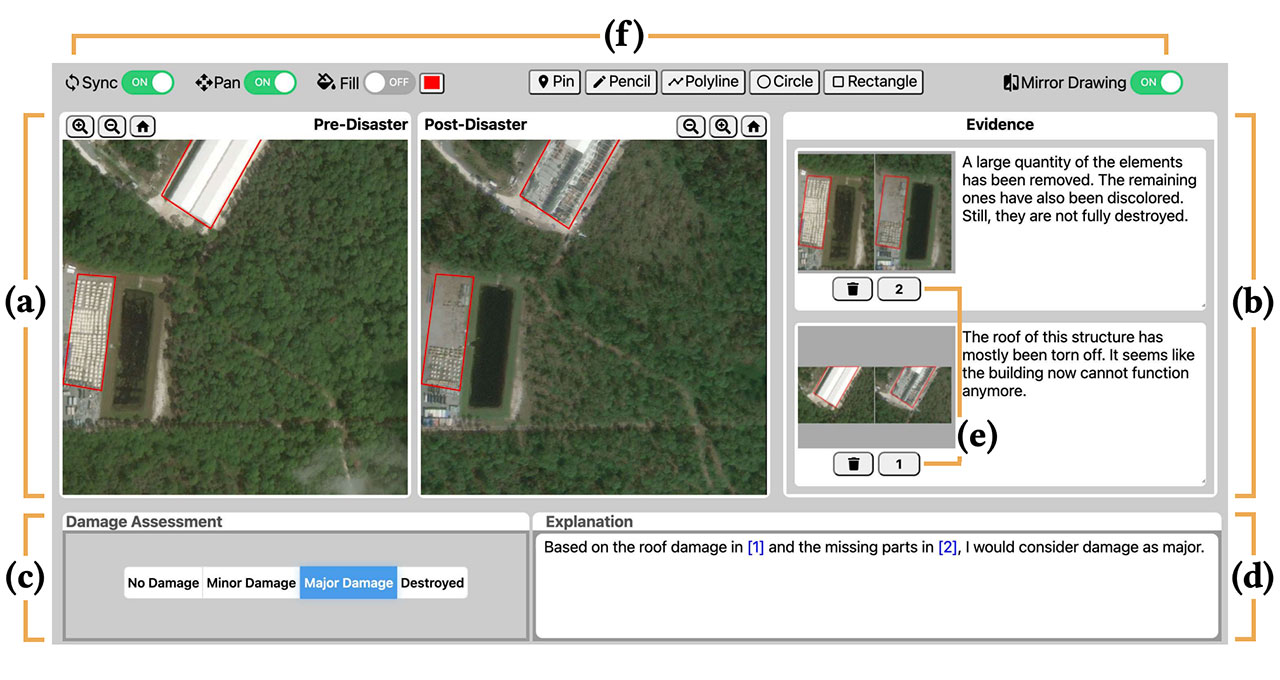
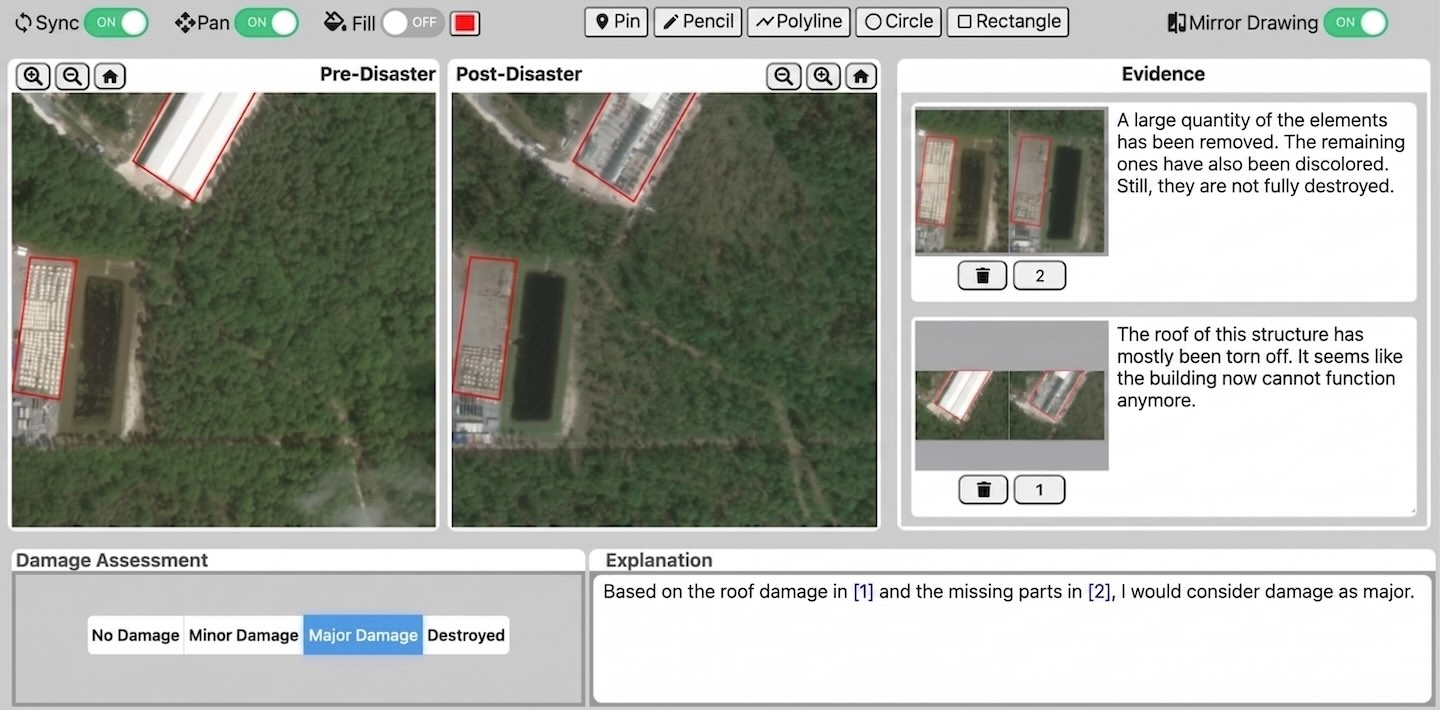
update papers

diff --git a/_layouts/publication.html b/_layouts/publication.html
@@ -13,24 +13,9 @@ layout: default
   <meta itemprop="keywords" content="{{ cat }}">
   {% endfor %}
   <div class="pb-3">
-    <h1 class="publication-detail-title" itemprop="headline">{{ page.title }}</h1>
-    <p class="publication-author-list">
-      {% for author in page.authors %}
-      {% assign author_data = site.data.people.people | where:"name", author | first %}
-      {% if author_data and author_data.website %}
-      <a href="{{ author_data.website }}">{{ author }}</a>
-      {% else %}
-      {{ author }}
-      {% endif %}
-      {% unless forloop.last %}, {% endunless %}
-      {% endfor %}
-      {% if page.coauthors %} <span class="publication-cofirst ml-2">(* co-first authorship)</span>{% endif %}
-    </p>
-    {% if page.note %}
-    <p><span itemprop="isPartOf">{{ page.venue_full | default: page.venue }}</span>, {{ page.year }}. ({{ page.note }})</p>
-    {% else %}
-    <p><span itemprop="isPartOf">{{ page.venue_full | default: page.venue }}</span>, {{ page.year }}.</p>
-    {% endif %}
+    <h1 class="publication-detail-title mb-2" itemprop="headline">{{ page.title }}</h1>
+    
+    <p><span itemprop="isPartOf">{{ page.venue_full | default: page.venue }}</span></p>
     {% if page.award %}
     <p class="inline-flex items-center"><i data-lucide="trophy" class="mr-1.5"></i>{{ page.award }}</p>
     {% endif %}

diff --git a/_publication/arxiv2026_design-homogenization_paper.md b/_publication/arxiv2026_design-homogenization_paper.md
@@ -12,7 +12,7 @@ authors:
   - Katharina Reinecke
   - Emily Tseng
 venue: arXiv preprint, 2026
-venue_full: "arXiv preprint"
+venue_full: "arXiv preprint arXiv:2603.13036"
 abstract: "Generative AI is known for its tendency to homogenize, often reproducing dominant style conventions found in training data. However, it remains unclear how these homogenizing effects extend to complex structural tasks like web design. As lay creators increasingly turn to LLMs to ‘vibe-code’ websites—prompting for aesthetic and functional goals rather than writing code—they may inadvertently narrow the diversity of their designs, and limit creative expression throughout the internet. In this paper, we interrogate the possibility of design homogenization in web vibe coding. We first characterize the vibe coding lifecycle, pinpointing stages where homogenization risks may arise. We then conduct a sociotechnical risk analysis unpacking the potential harms of web vibe coding and their interaction with design homogenization. We identify that the push for frictionless generation can exacerbate homogenization and its harms. Finally, we propose a mitigation framework centered on the idea of productive friction. Through case studies at the micro, meso, and macro levels, we show how centering productive friction can empower creators to challenge default outputs and preserve diverse expression in AI-mediated web design."
 category:
   - "AI / NLP"

diff --git a/_publication/eacl2026_personality-editing_paper.md b/_publication/eacl2026_personality-editing_paper.md
@@ -11,7 +11,7 @@ authors:
   - Donghoon Shin
   - Hwanhee Lee
 venue: EACL 2026
-venue_full: "EACL 2026"
+venue_full: "Proceedings of the 19th Conference of the European Chapter of the Association for Computational Linguistics"
 abstract: "Large Language Models (LLMs) are integral to applications such as conversational agents and content creation, where precise control over a model’s personality is essential for maintaining tone, consistency, and user engagement. However, prevailing prompt-based or fine-tuning approaches either lack robustness or demand large-scale training data, making them costly and impractical. In this paper, we present PALETTE (Personality Adjustment by LLM SElf-TargeTed quEries), a novel method for personality editing in LLMs. Our approach introduces adjustment queries, where self-referential statements grounded in psychological constructs are treated analogously to factual knowledge, enabling direct editing of personality-related responses. Unlike fine-tuning, PALETTE requires only 12 editing samples to achieve substantial improvements in personality alignment across personality dimensions. Experimental results from both automatic and human evaluations demonstrate that our method enables more stable and well-balanced personality control in LLMs."
 category:
   - "AI / NLP"